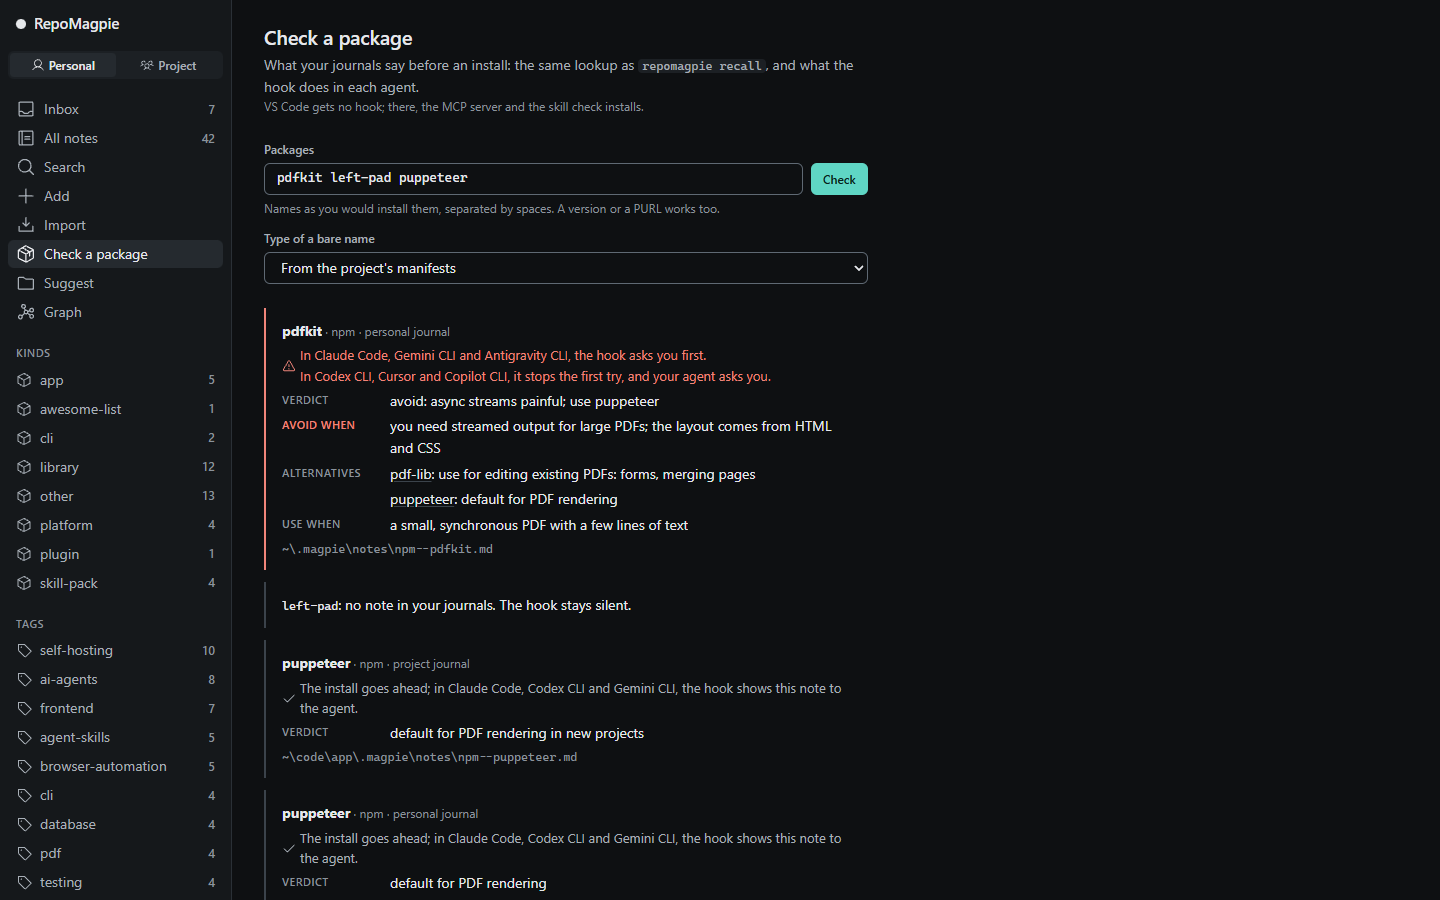
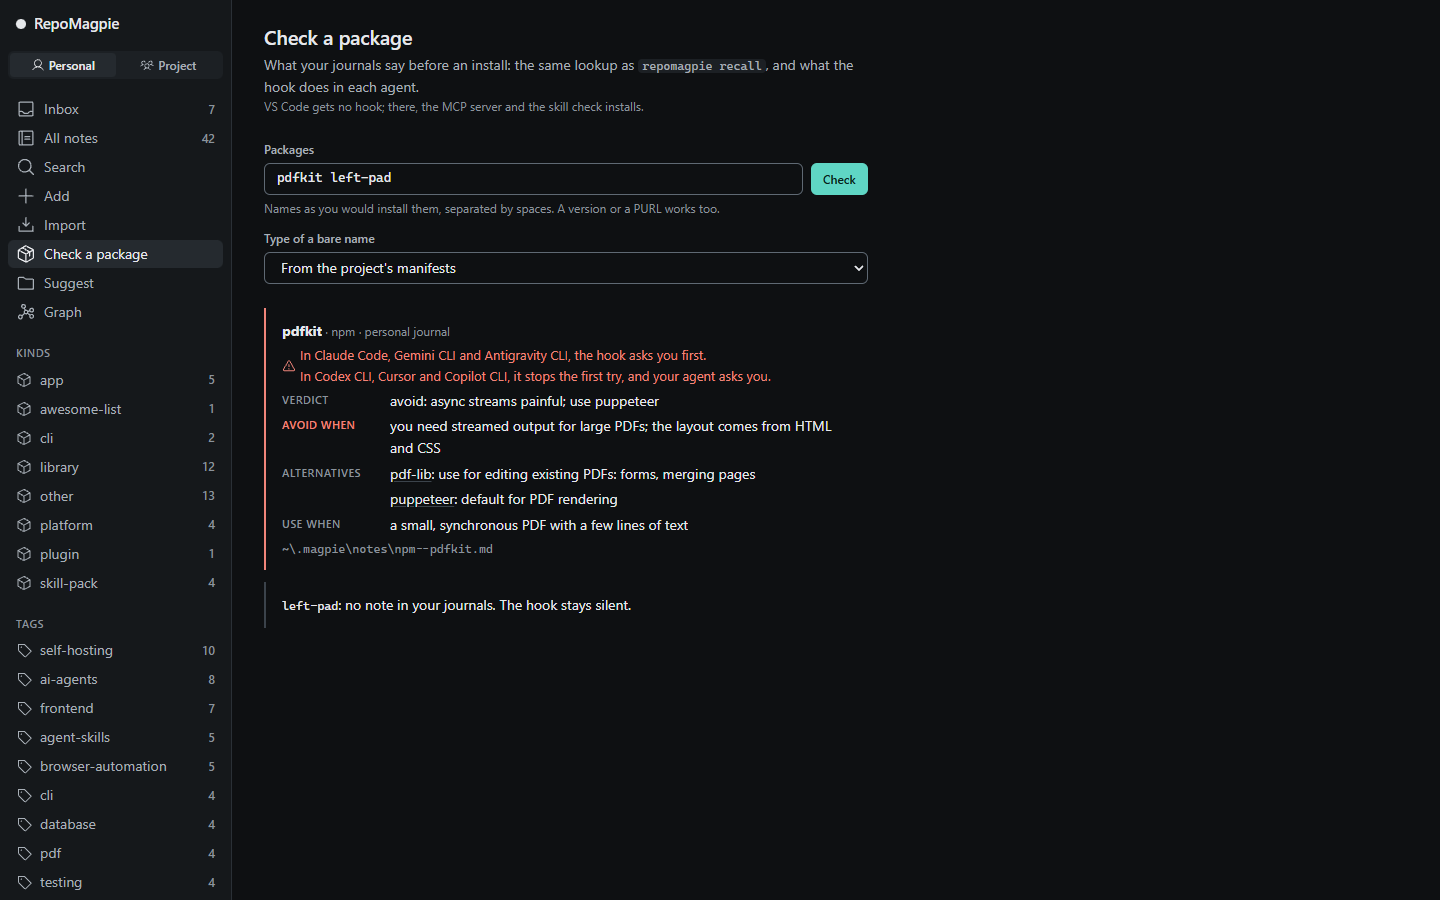
docs: the check-package screenshot checks pdfkit and left-pad, so the page fits

diff --git a/ui/e2e/readme-shots.spec.ts b/ui/e2e/readme-shots.spec.ts
@@ -25,7 +25,7 @@ test("inbox review", async ({ page, magpie }) => {
 test("check a package", async ({ page, magpie }) => {
   await magpie.open(page);
   await page.getByRole("button", { name: "Check a package" }).click();
-  await page.getByLabel("Packages").fill("pdfkit left-pad puppeteer");
+  await page.getByLabel("Packages").fill("pdfkit left-pad");
   await page.getByRole("button", { name: "Check", exact: true }).click();
   await expect(page.getByText("In Claude Code, Gemini CLI and Antigravity CLI, the hook asks you first.")).toBeVisible();
   await shoot(page, "screen-check-package");
